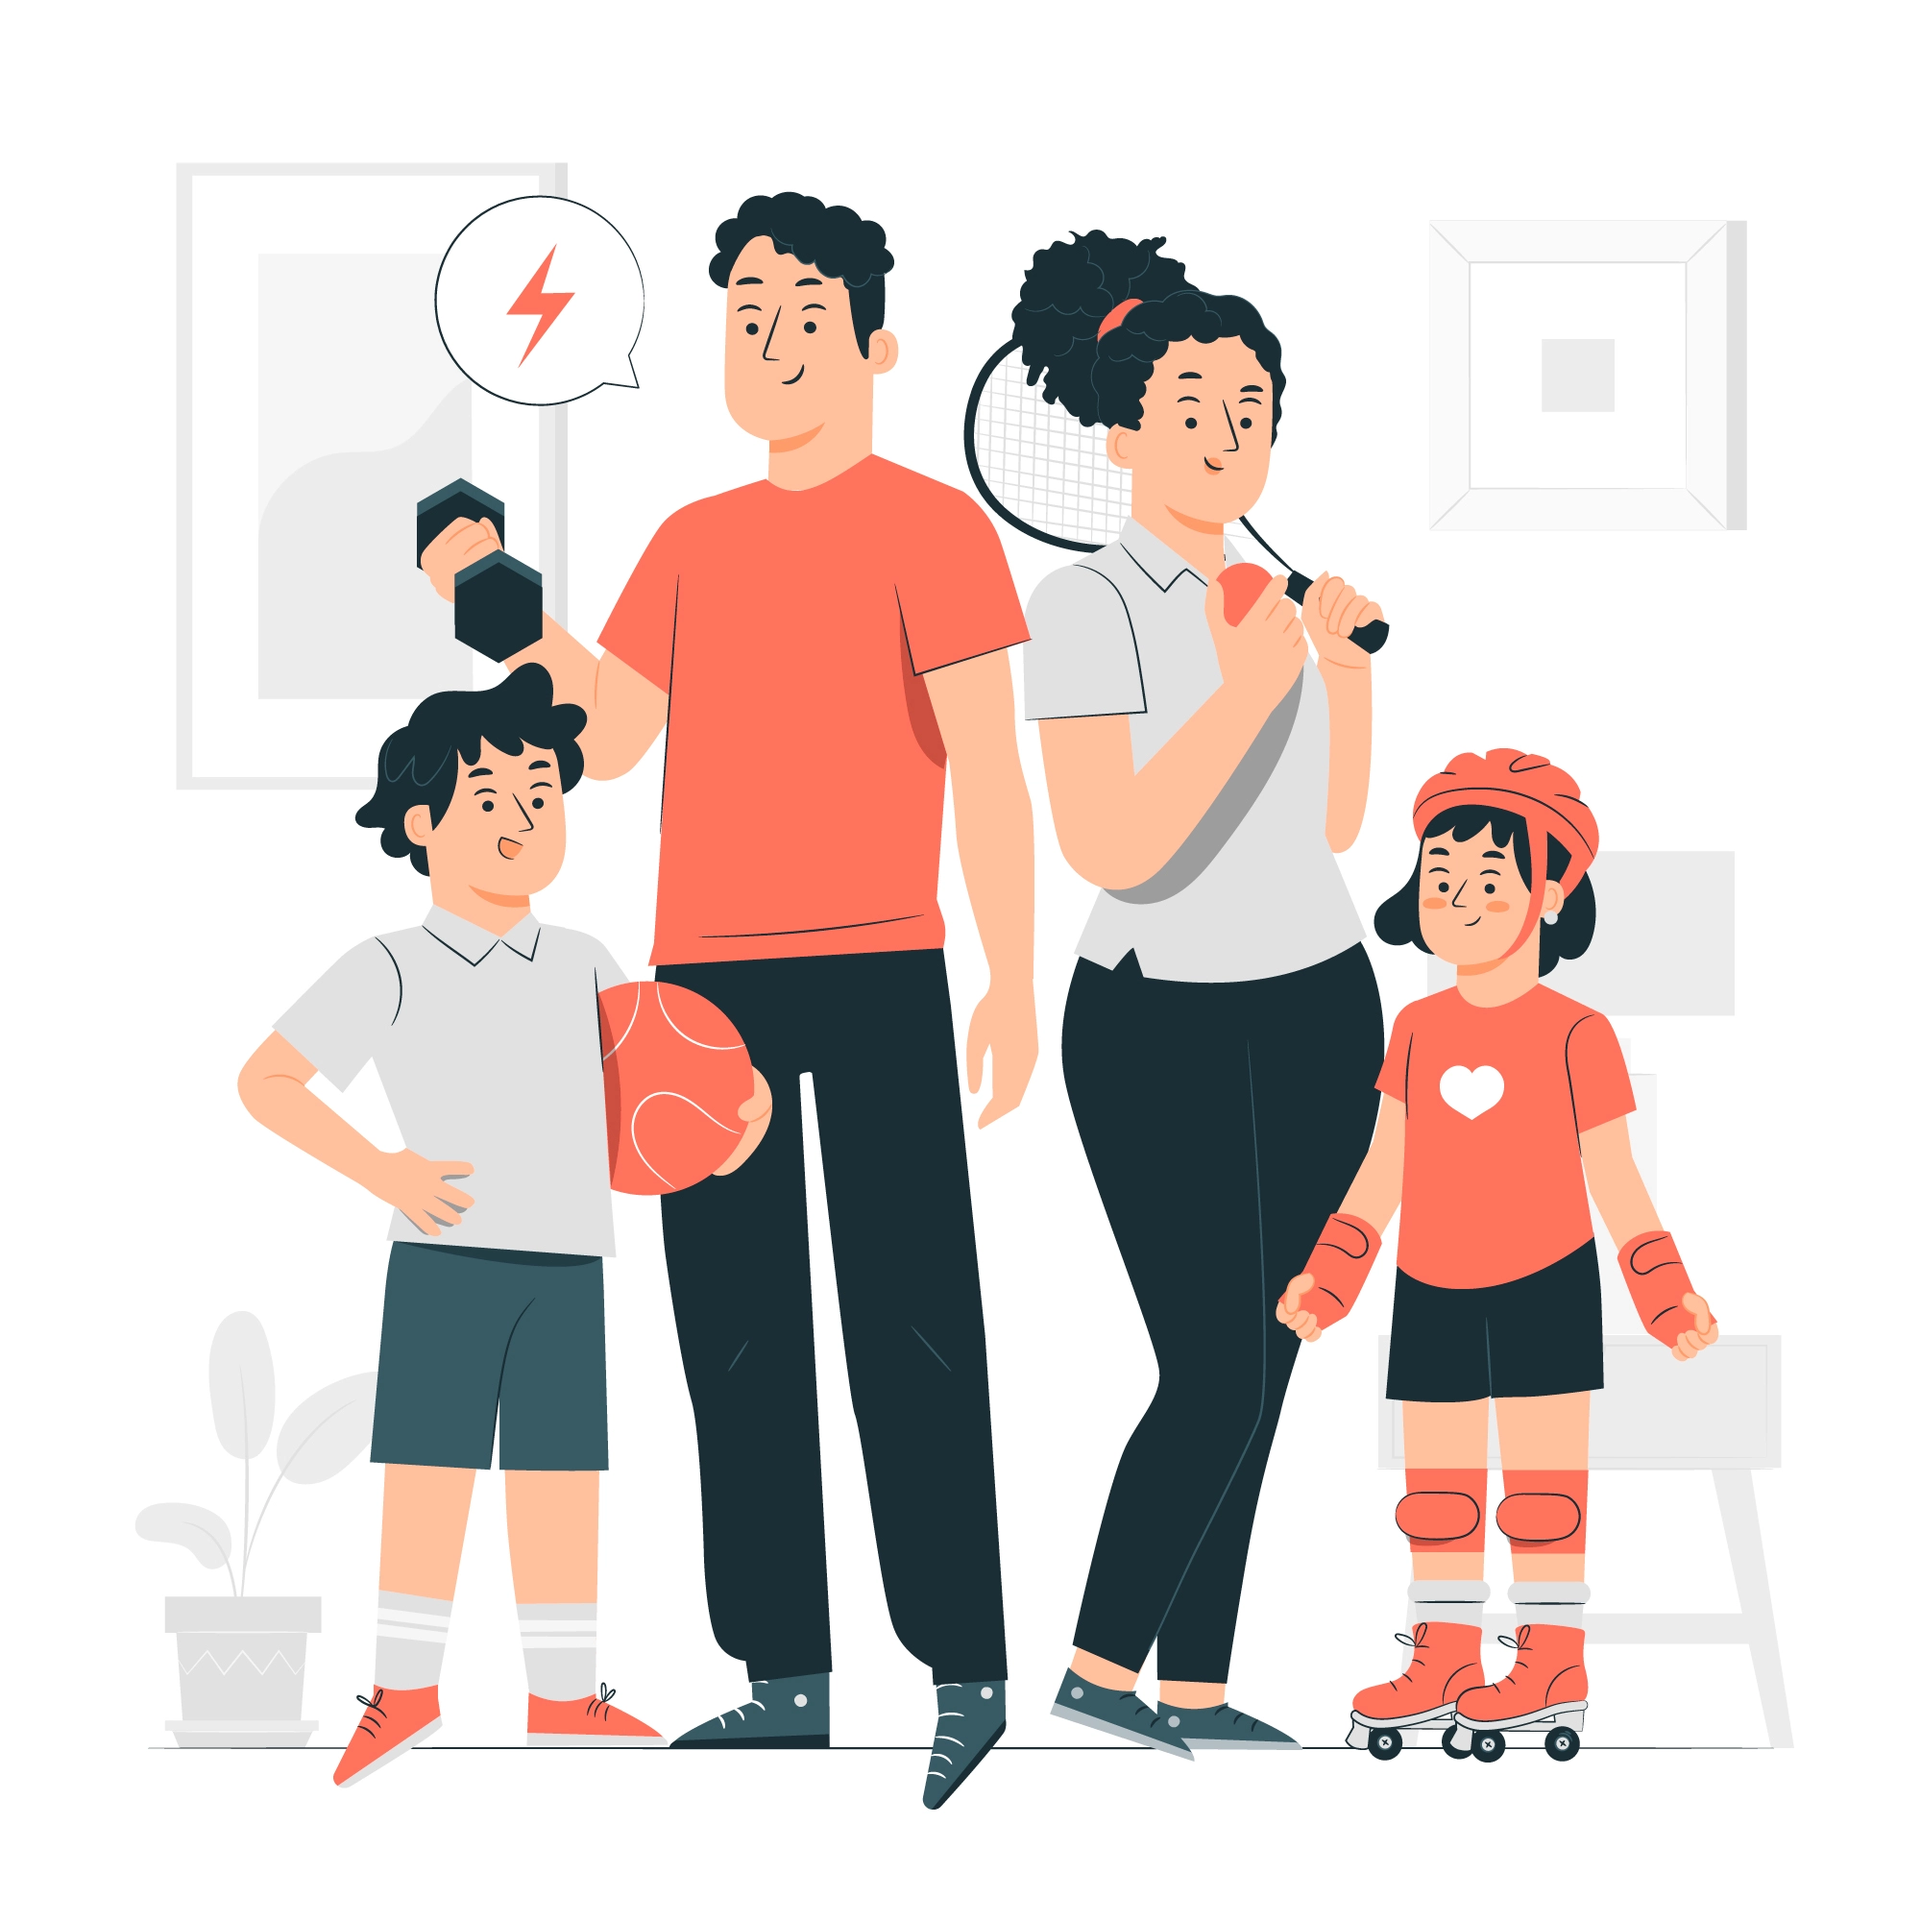
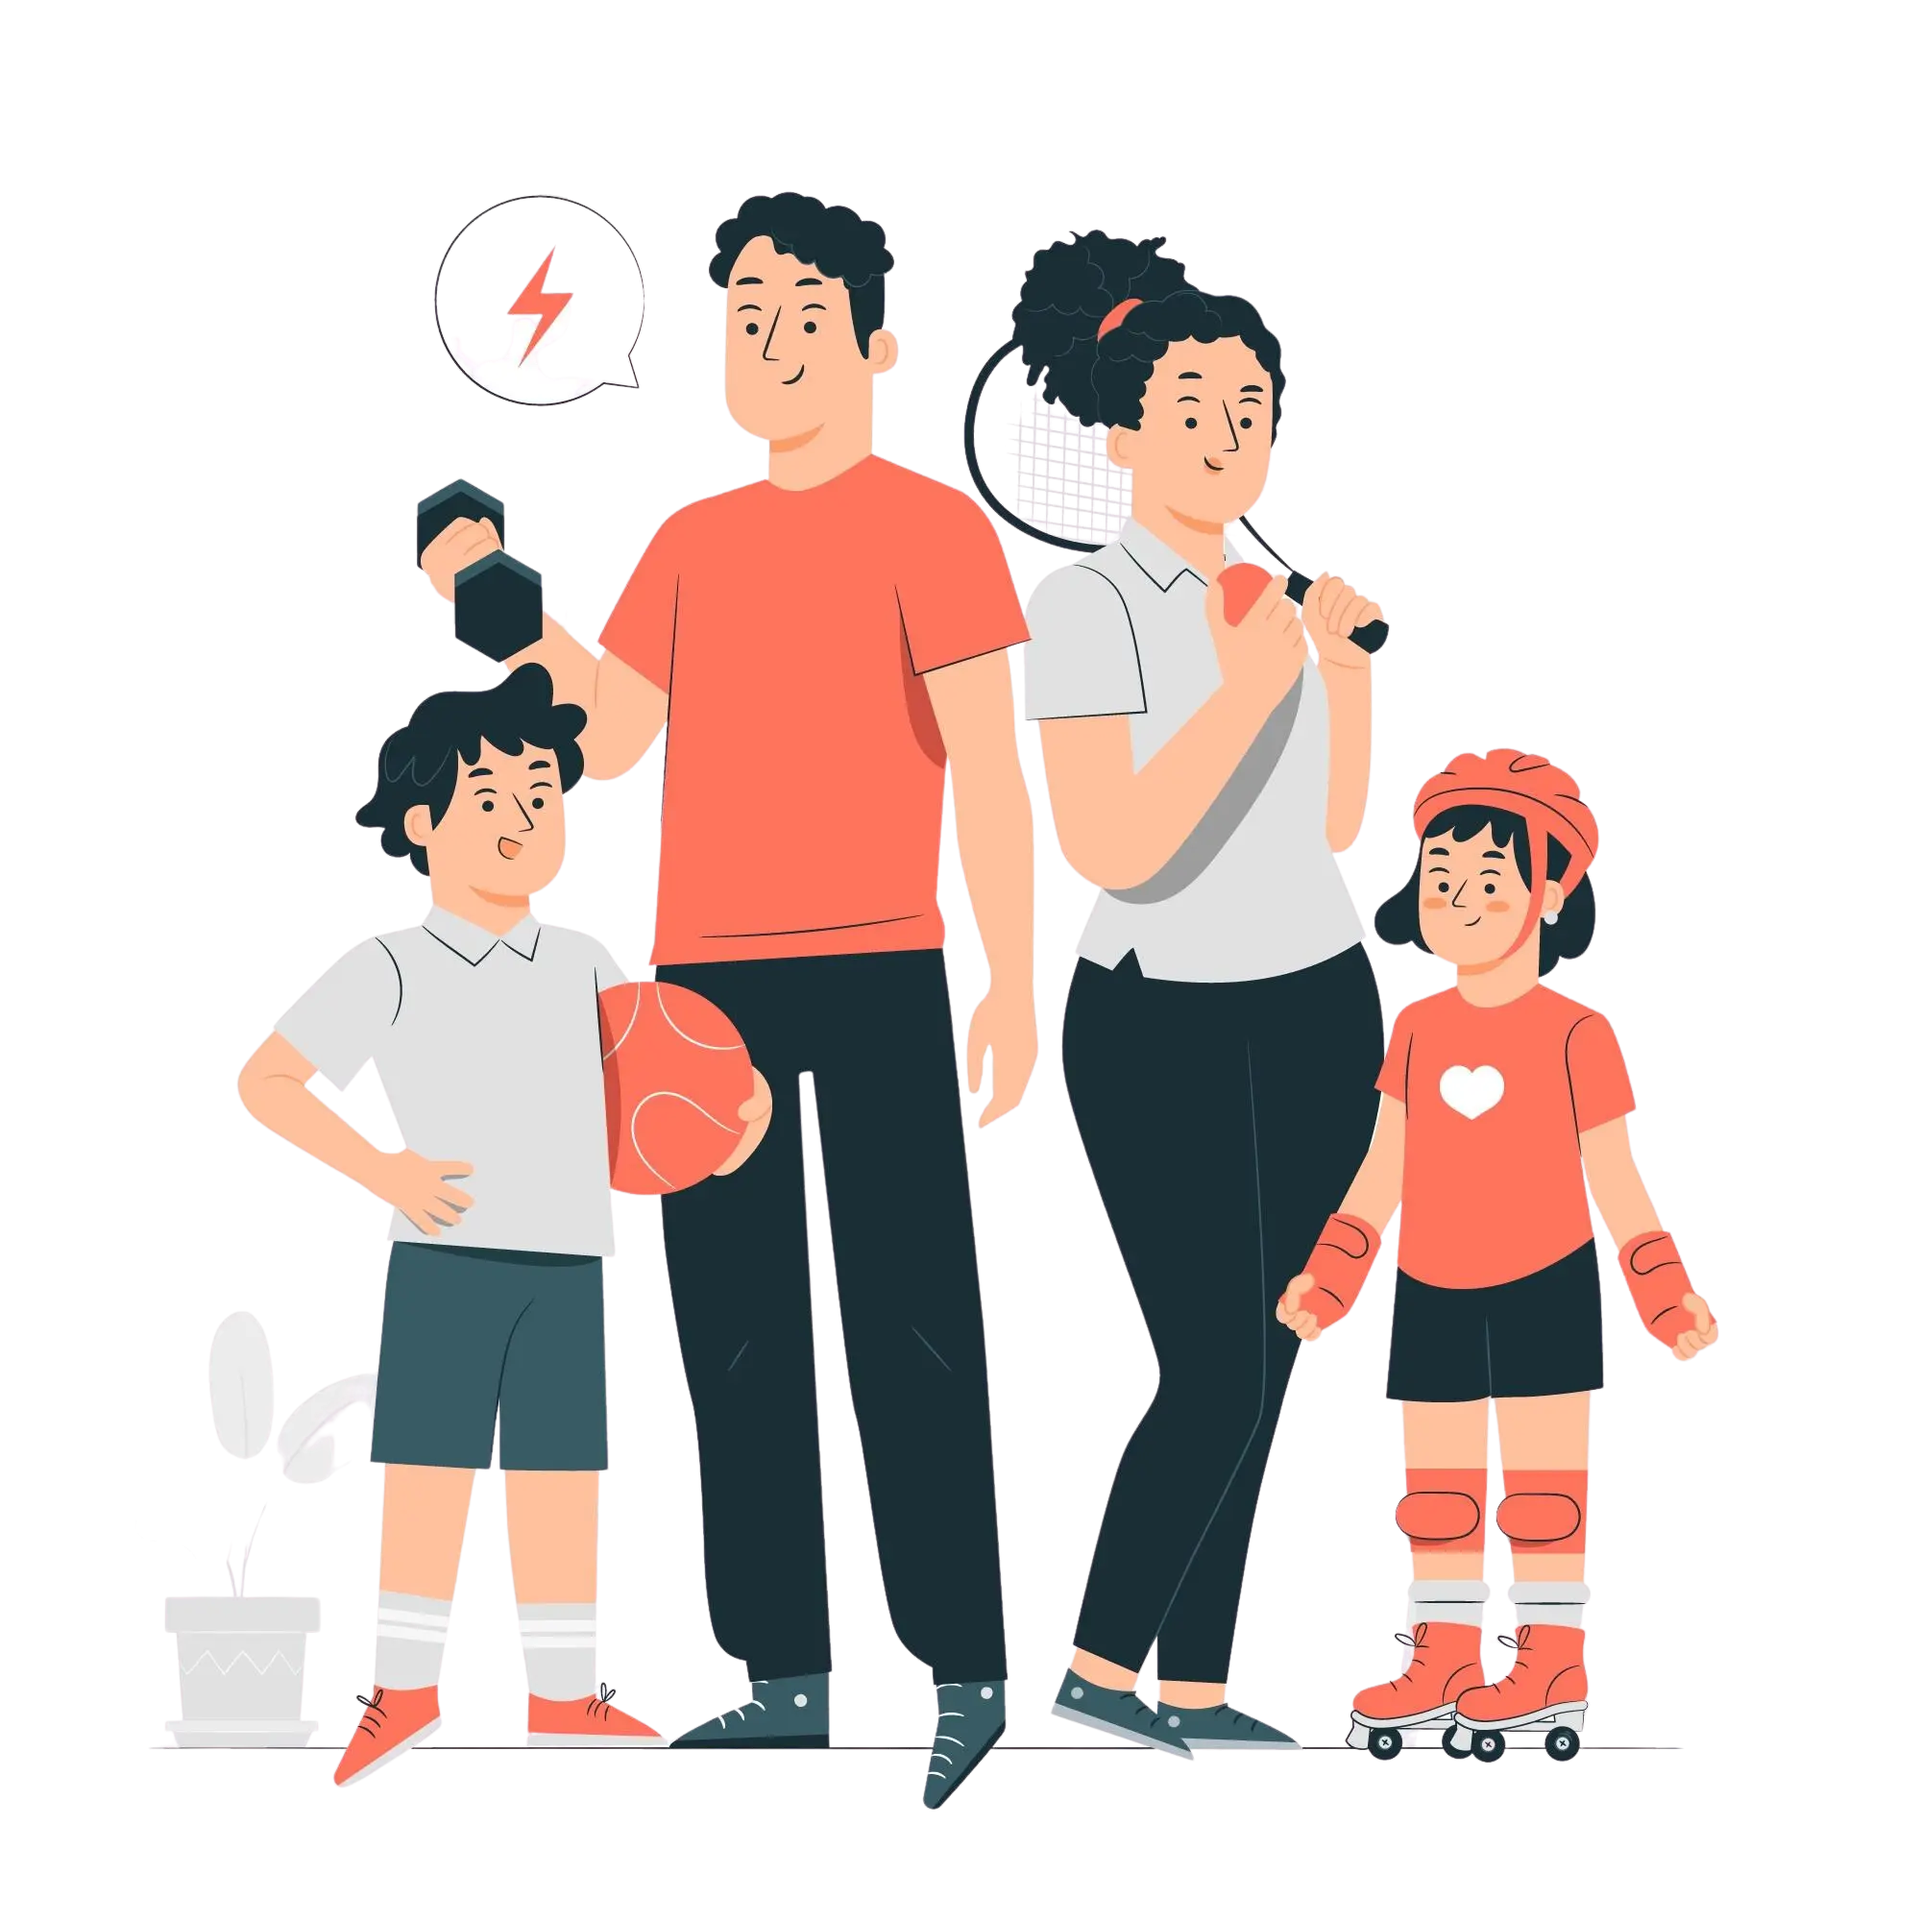
fix: fix some hero image and ImageSeeder chore: remove some bg on a few image

diff --git a/database/seeders/ImageSeeder.php b/database/seeders/ImageSeeder.php
@@ -2,9 +2,8 @@
 
 namespace Database\Seeders;
 
-use Illuminate\Database\Console\Seeds\WithoutModelEvents;
-use Illuminate\Database\Seeder;
 use App\Models\Image;
+use Illuminate\Database\Seeder;
 
 class ImageSeeder extends Seeder
 {
@@ -17,7 +16,7 @@ class ImageSeeder extends Seeder
     {
         $images = [
             [
-                'path' => 'HgQ2hhsLbWf9an9ADN2Phv14KuctdYNR8CJP8NEi.webp',
+                'path' => 'about-image.webp',
                 'page_id' => '1',
             ],
         ];
